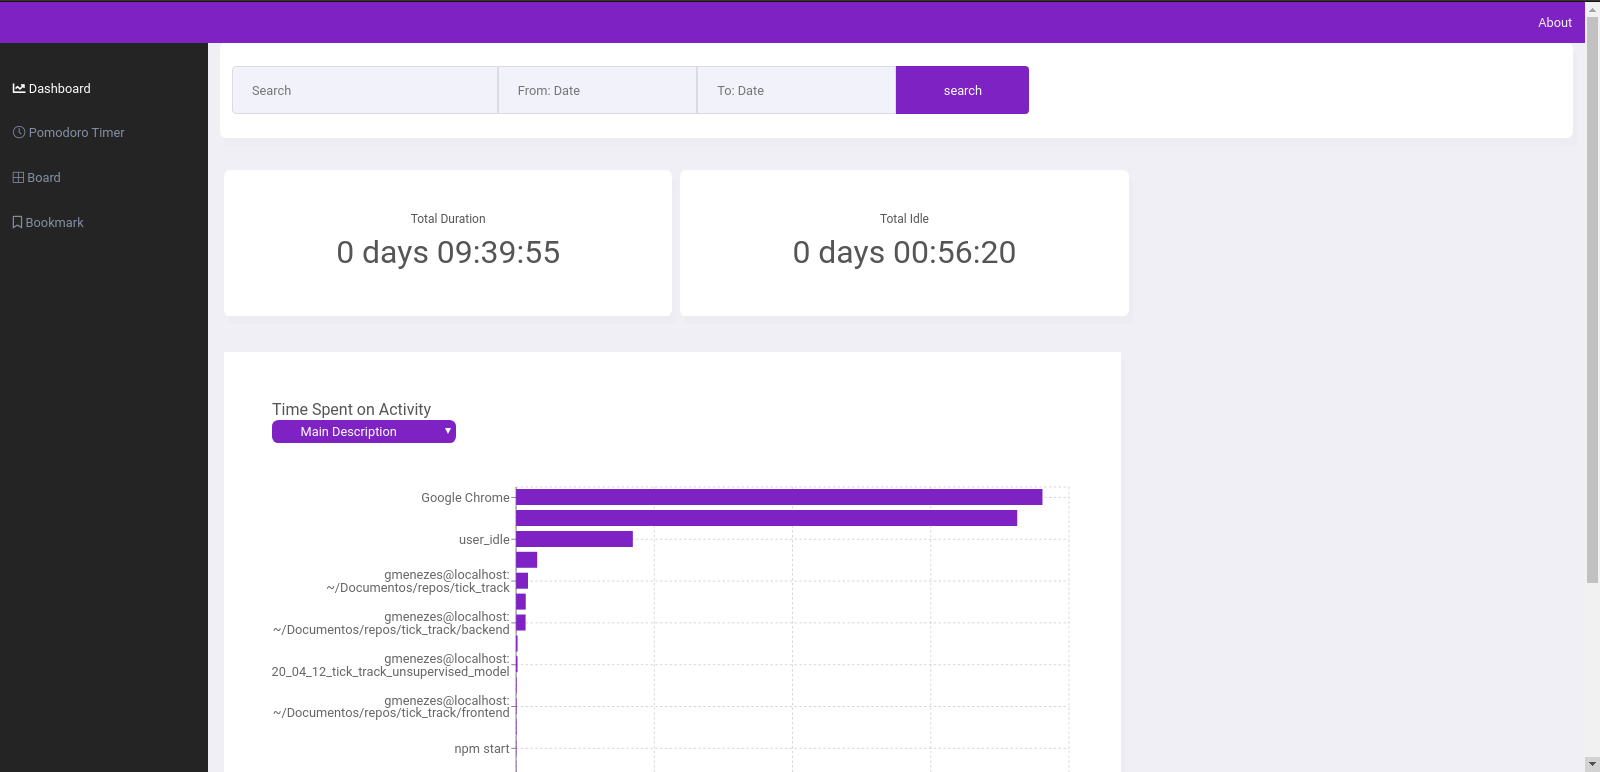
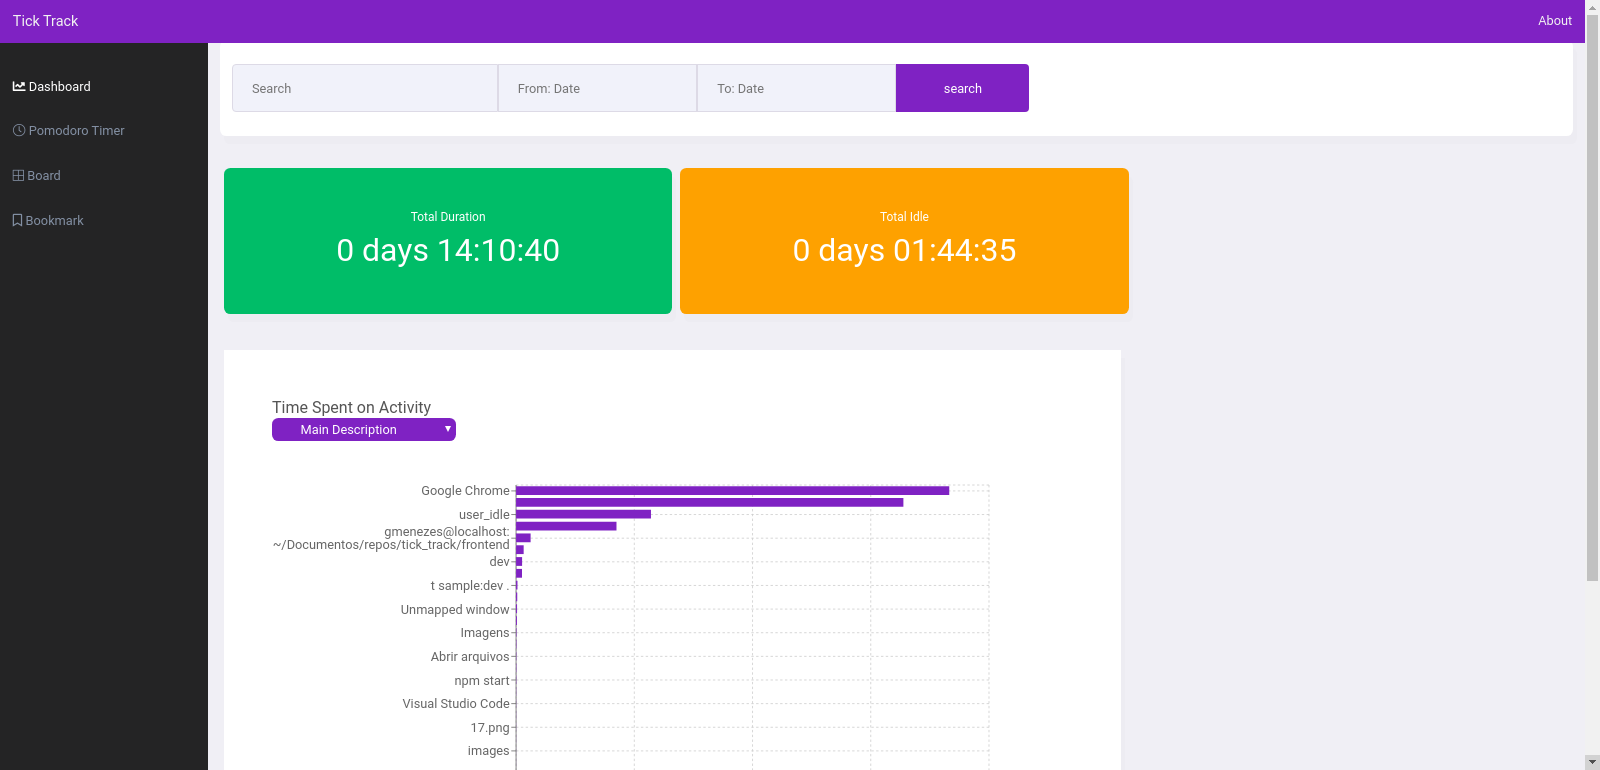
Dockerize frontend

diff --git a/frontend/src/pages/Activity/index.js b/frontend/src/pages/Activity/index.js
@@ -89,7 +89,12 @@ class Dashboard extends React.Component {
     return (
       <div className="container-fluid">
           <div className="topnav">
-            <a href="#about">About</a>
+              <div className="left-align application-name">
+                <a href="#home">Tick Track</a>
+              </div>
+              <div className="rigth-align">
+                <a href="#about">About</a>
+              </div>
           </div>
 
           <div className="sidebar">
@@ -140,8 +145,8 @@ class Dashboard extends React.Component {
             </div>
 
             <div className="row">
-              <div className="col-33">
-                <div className="kpi">
+              <div className="col-33 total-duration">
+                <div className="kpi total-duration">
                   <div className="kpi-heading">
                     <div>
                       Total Duration
@@ -153,8 +158,8 @@ class Dashboard extends React.Component {
                   </div>
                 </div>
               </div>
-              <div className="col-33">
-                <div className="kpi">
+              <div className="col-33 total-idle">
+                <div className="kpi total-idle">
                   <div className="kpi-heading">
                     <div>
                       Total Idle
@@ -180,17 +185,19 @@ class Dashboard extends React.Component {
                     </select>
                   </form>
                 </div>
-                <div className="bar-chart">
-                  <ResponsiveContainer width="100%" height="100%">
-                    <BarChart width={1000} height={600} data={this.state.barData} layout="vertical">
-                      <CartesianGrid strokeDasharray="3 3" />
-                      <XAxis type="number"/>
-                      <YAxis width={300} dataKey="name" type="category"/>
-                      <Tooltip />
-                      <Legend />
-                      <Bar dataKey="duration" fill="rgb(113, 89, 193)" />
-                    </BarChart>
-                  </ResponsiveContainer>
+                  <div className="chart-wrapper">
+                    <div className="bar-chart">
+                      <ResponsiveContainer width="100%" height="100%">
+                        <BarChart width={1000} height={600} data={this.state.barData} layout="vertical">
+                          <CartesianGrid strokeDasharray="3 3" />
+                          <XAxis type="number"/>
+                          <YAxis width={300} dataKey="name" type="category"/>
+                          <Tooltip />
+                          <Legend />
+                          <Bar dataKey="duration" fill="rgb(113, 89, 193)" />
+                        </BarChart>
+                      </ResponsiveContainer>
+                    </div>
                 </div>
               </div>
             </div>

diff --git a/frontend/src/pages/Activity/styles.css b/frontend/src/pages/Activity/styles.css
@@ -58,12 +58,12 @@
 
 .kpi-heading {
   font-size: 15px;
-  color: #555;
+  color: #ffffff;
 }
 
 .kpi-value {
   font-size: 40px;
-  color: #555;
+  color: #ffffff;
 }
 
 .title {
@@ -185,7 +185,6 @@ button[type=submit] {
 
 /* Links inside the topnav */
 .topnav a {
-  float: right;
   display: block;
   color: #f2f2f2;
   text-align: center;
@@ -195,9 +194,22 @@ button[type=submit] {
 
 /* Change background on mouse-over */
 .topnav a:hover {
-  background: #ddd;
-  color: black;
+  color: #555;
+  text-decoration: none;
 }
+
+div .left-align {
+  float: left;
+}
+
+div .rigth-align {
+  float: right;
+}
+
+.application-name {
+  font-size: 18px;
+}
+
 
 .level-filter {
   margin-bottom: 50px;
@@ -215,7 +227,20 @@ button[type=submit] {
   border-radius: 8px;
 }
 
-.bar-chart {
+.chart-wrapper {
   height: 90%;
   width: 100%;
+}
+
+.bar-chart {
+  height: 90%;
+  width: 90%;
+}
+
+.total-duration {
+  background-color: #00ac69;
+}
+
+.total-idle {
+  background-color: #f4a100;
 }

diff --git a/README.md b/README.md
@@ -10,7 +10,8 @@ This project is my initial step as a full stack developer. It all started a ong 
 
 - python >= 3.6
 - pipenv
-- npm
+- docker
+- docker-compose
 
 ## Stack
 
